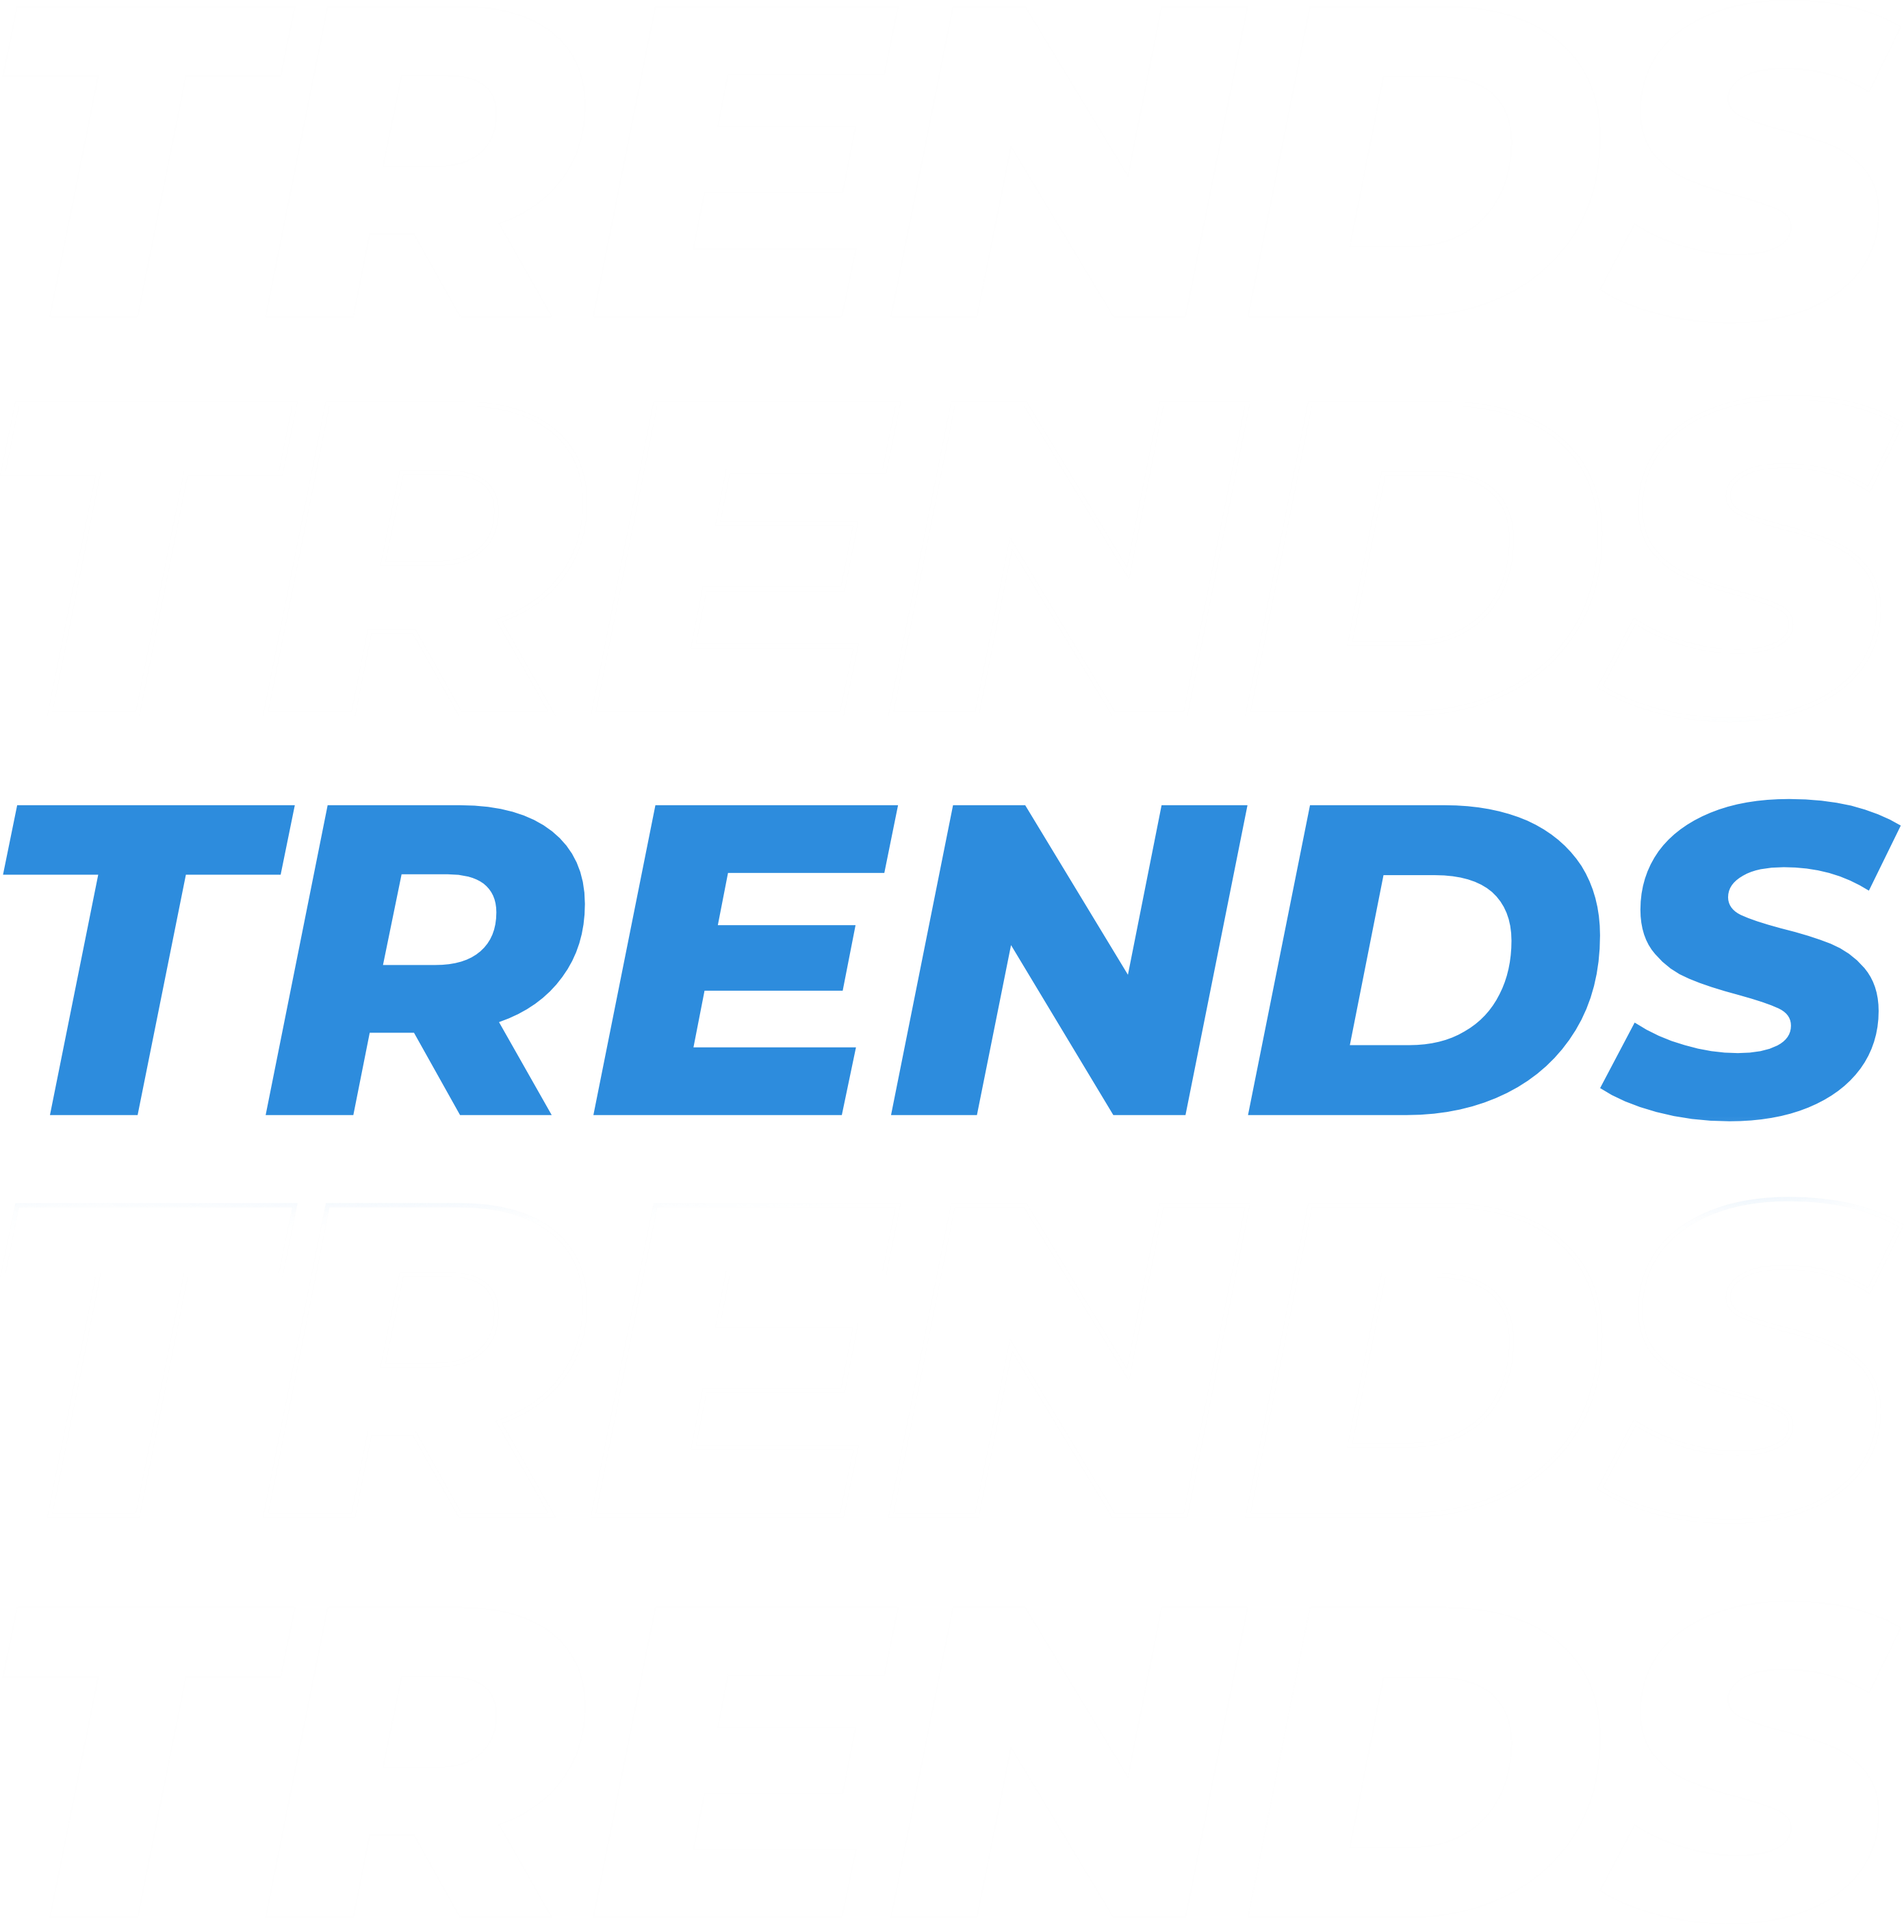
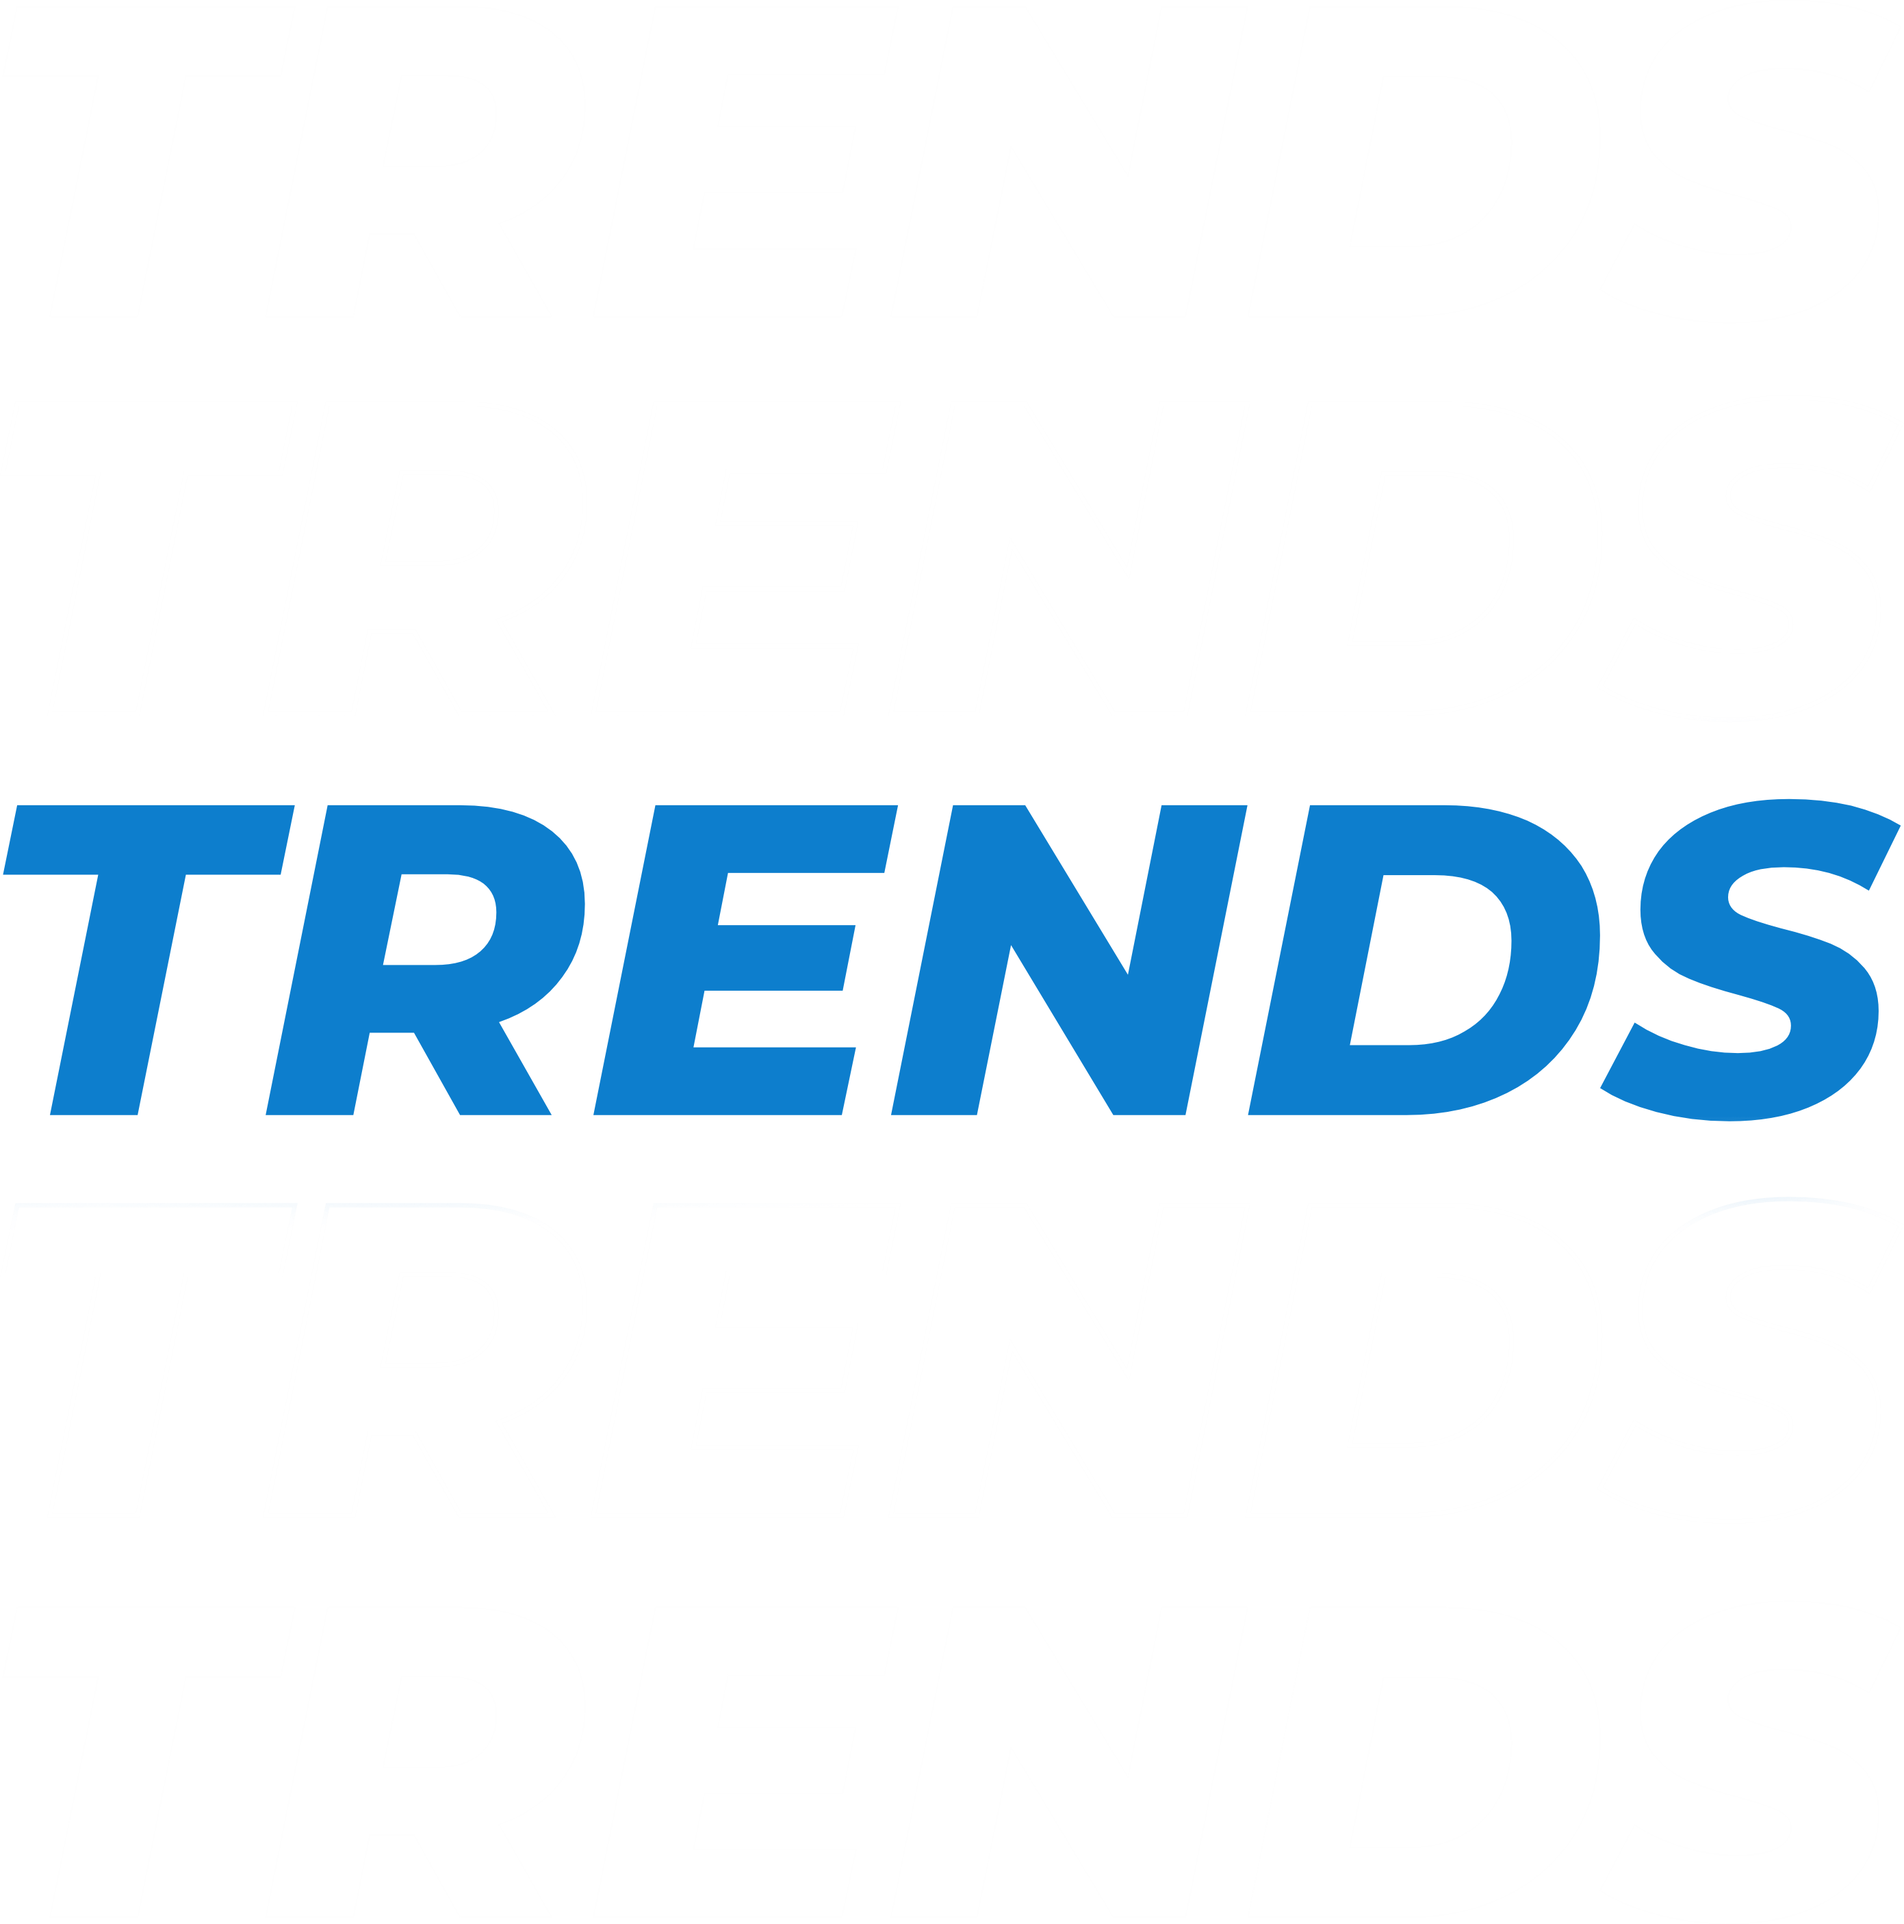
Added test loading image

Changed region(s): [[0.0, 0.4022, 1.0, 0.5878]]

diff --git a/tgtrends_front/wwwroot/index.html b/tgtrends_front/wwwroot/index.html
@@ -14,7 +14,7 @@
     
     <div id="loading">
         <div class="loading__container">
-            <img src="images/back_dark.png" class="loading-background">
+            <img src="images/back_dark_test.png" class="loading-background">
             <div class="loading__container-bar">
                 <div class="loading__mask"></div>
                 <img src="images/white_logo.png" class="loading-image">
